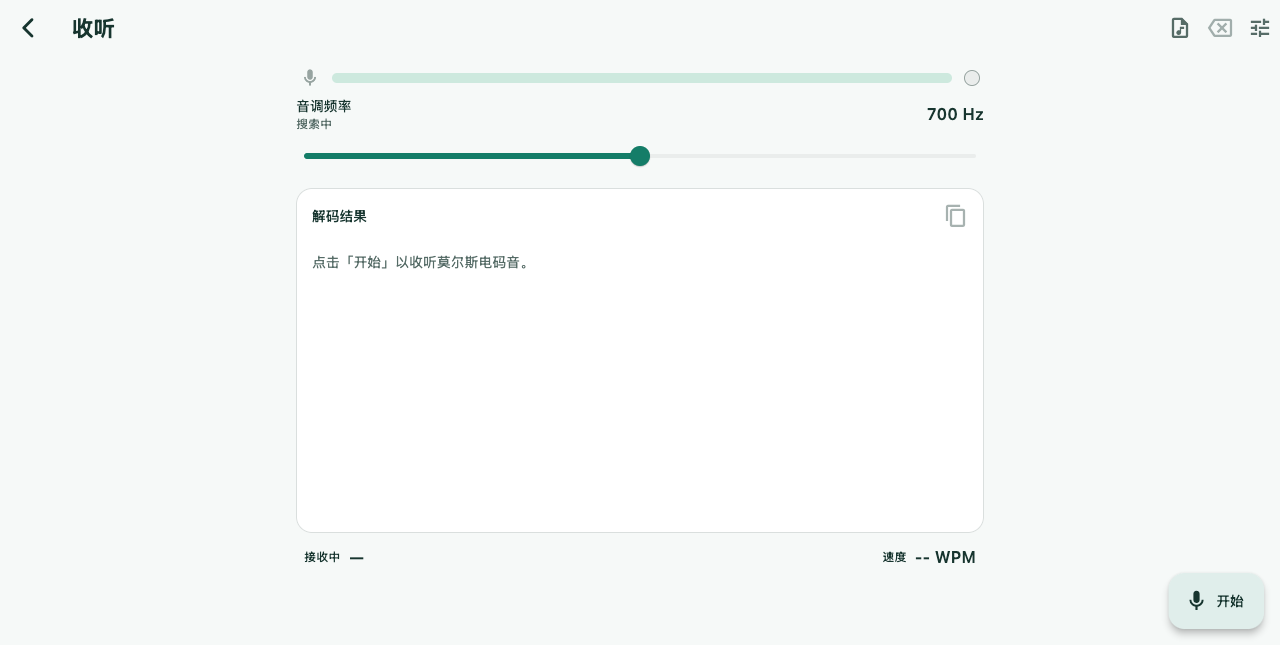
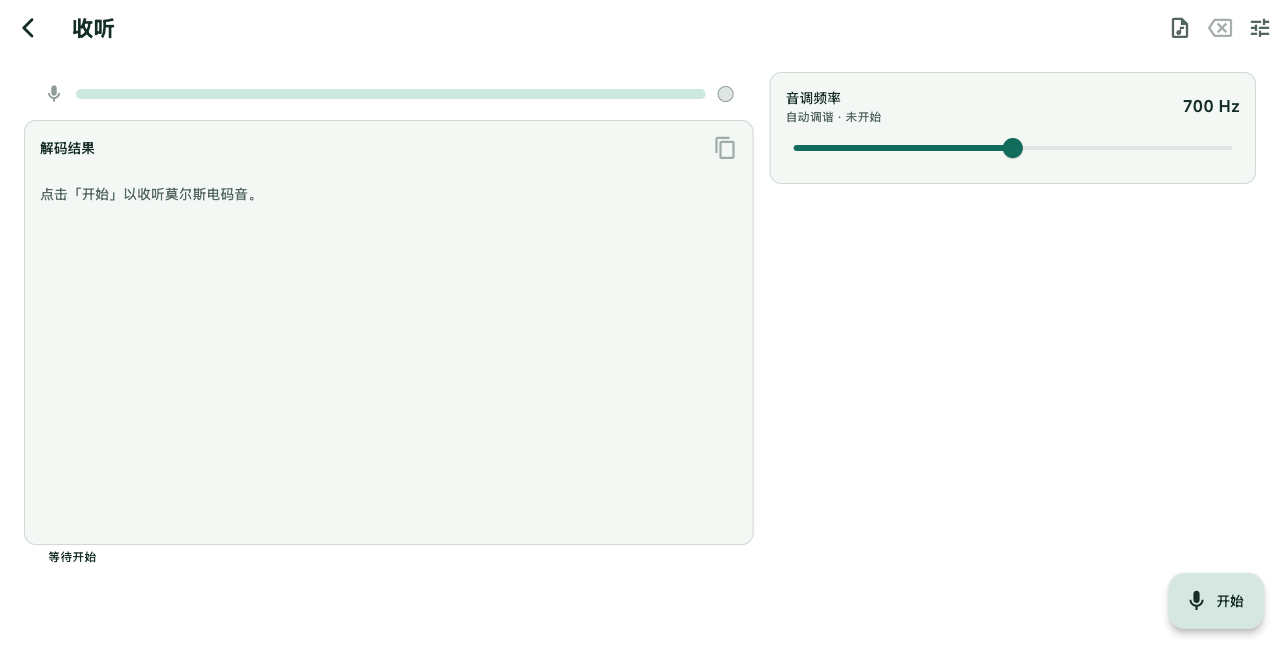
docs: update the bilingual macOS screenshot gallery

diff --git a/doc/screenshots/README.md b/doc/screenshots/README.md
@@ -10,9 +10,9 @@ The Learn tab shows the next daily-plan exercise and the current Koch lesson. Op
 
 ## Platform captures
 
-The Linux and Windows galleries use the two-language screenshot walk for the redesigned app at `fe0d85a`. Each platform includes twelve scenes. Linux and Windows frames measure 1280 × 800. [Native capture run](https://github.com/agentx-icu/morsecq/actions/runs/45852365519)
+The Linux, Windows and macOS galleries use the two-language screenshot walk for the redesigned app at `fe0d85a`. Each platform includes twelve scenes. Linux and Windows frames measure 1280 × 800, and macOS frames measure 1280 × 645. [Native capture run](https://github.com/agentx-icu/morsecq/actions/runs/45852365519)
 
-The macOS, iPhone, iPad and Android galleries show the earlier interface at `e493213`. The iPhone simulator frames measure 1320 × 2868, iPad 2064 × 2752 and Android 823 × 1829. The earlier macOS frames measure 1280 × 645. [Earlier desktop capture](https://github.com/agentx-icu/morsecq/actions/runs/38097487038)
+The iPhone, iPad and Android galleries show the earlier interface at `e493213`. The iPhone simulator frames measure 1320 × 2868, iPad 2064 × 2752 and Android 823 × 1829.
 
 | Scene | macos | ios | ipad | android | linux | windows |
 |---|---|---|---|---|---|---|

diff --git a/doc/screenshots/README.zh-CN.md b/doc/screenshots/README.zh-CN.md
@@ -10,9 +10,9 @@
 
 ## 各平台截图
 
-Linux 和 Windows 图库由改版后的应用 `fe0d85a` 在对应平台运行截图流程生成，每个平台均有中文和英文的十二个场景。Linux 和 Windows 截图为 1280 × 800。[原生截图记录](https://github.com/agentx-icu/morsecq/actions/runs/45852365519)
+Linux、Windows 和 macOS 图库由改版后的应用 `fe0d85a` 在对应平台运行截图流程生成，每个平台均有中文和英文的十二个场景。Linux 和 Windows 截图为 1280 × 800，macOS 为 1280 × 645。[原生截图记录](https://github.com/agentx-icu/morsecq/actions/runs/45852365519)
 
-macOS、iPhone、iPad 和 Android 图库展示较早版本 `e493213` 的界面。iPhone 模拟器截图为 1320 × 2868，iPad 为 2064 × 2752，Android 为 823 × 1829。早期 macOS 截图为 1280 × 645。[早期桌面截图记录](https://github.com/agentx-icu/morsecq/actions/runs/38097487038)
+iPhone、iPad 和 Android 图库展示较早版本 `e493213` 的界面。iPhone 模拟器截图为 1320 × 2868，iPad 为 2064 × 2752，Android 为 823 × 1829。
 
 | 场景 | macos | ios | ipad | android | linux | windows |
 |---|---|---|---|---|---|---|
